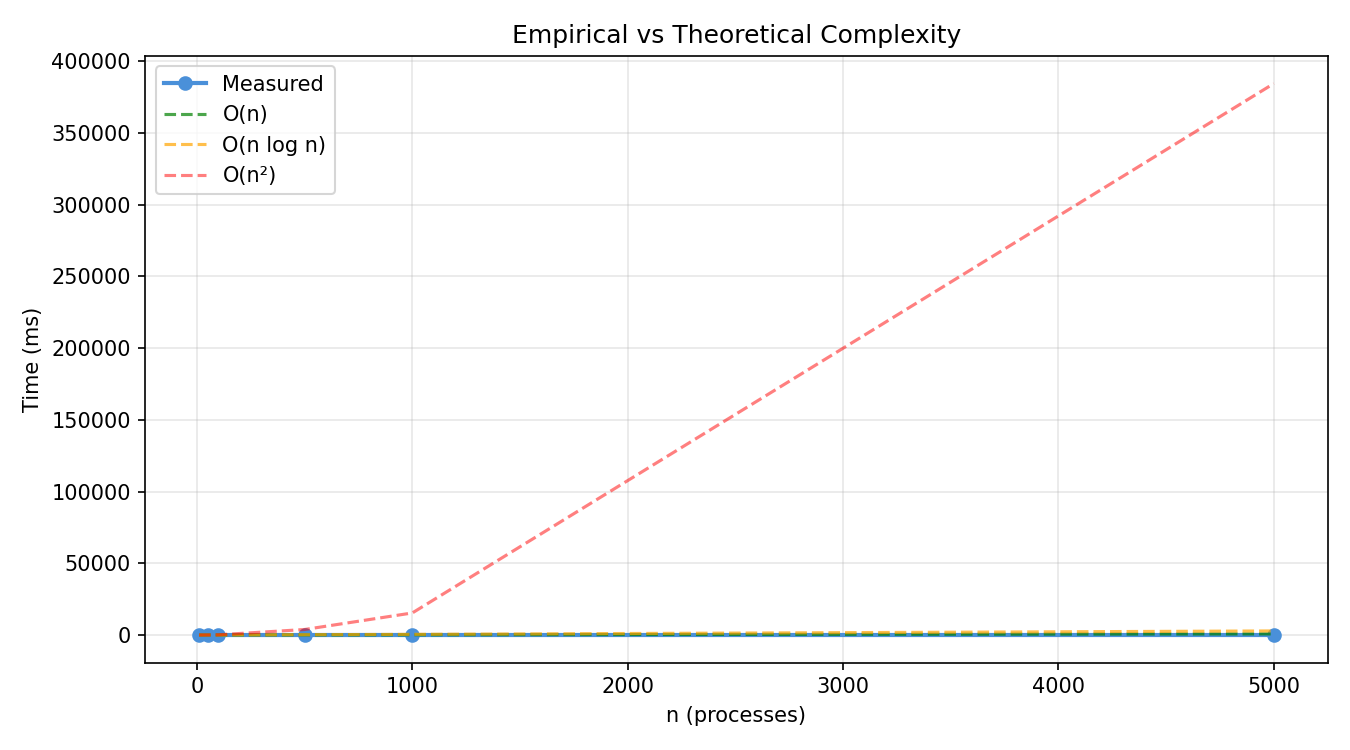
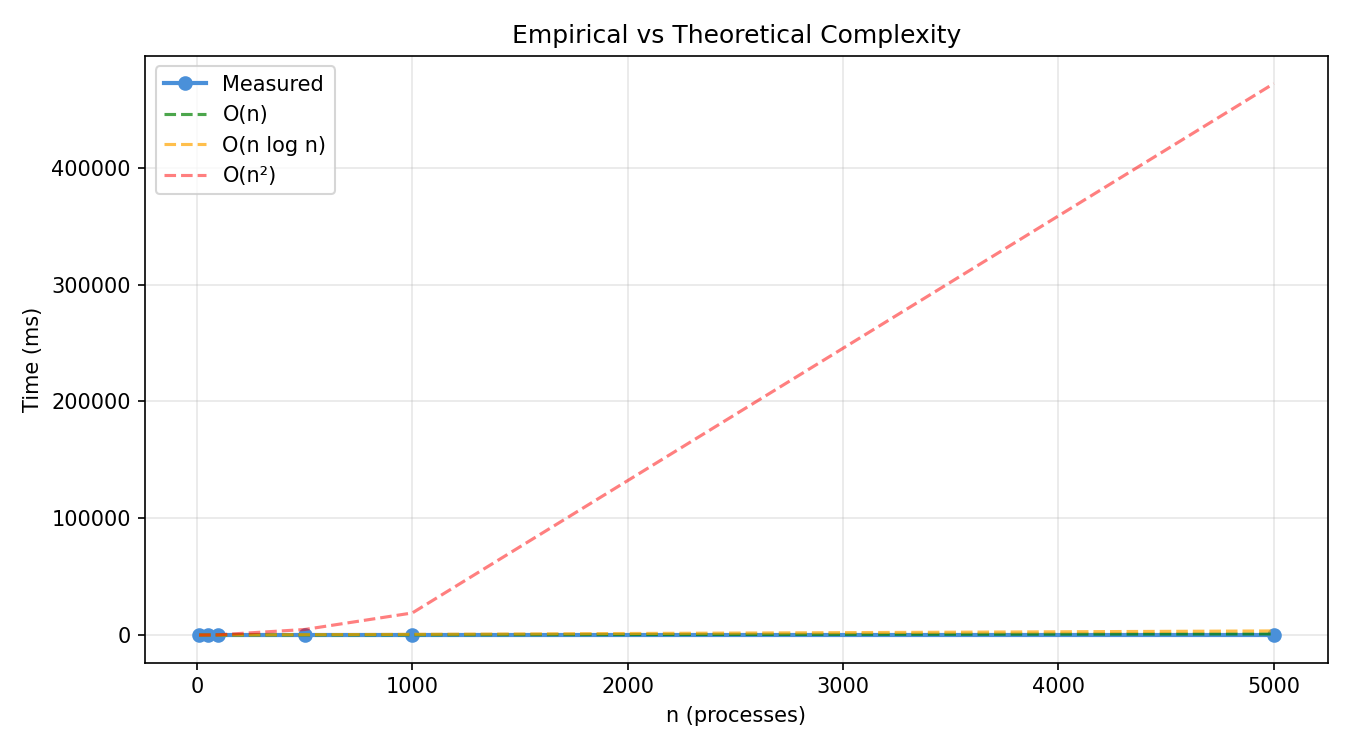
ultimas correciones

diff --git a/src/memory/first_fit.c b/src/memory/first_fit.c
@@ -2,10 +2,7 @@
 #include <stdio.h>
 #include "memory_manager.h"
 
-
-MemoryManager* mm_create(
-     int total_memory
-){
+MemoryManager* mm_create(int total_memory) {
      MemoryManager* mm = malloc(sizeof(MemoryManager));
      mm->total_memory  = total_memory;
 
@@ -21,10 +18,7 @@ MemoryManager* mm_create(
      return mm;
 }
 
-int mm_allocate_first_fit(
-    MemoryManager* mm,
-    int size
-){
+int mm_allocate_first_fit(MemoryManager* mm, int size) {
      MemoryBlock* cur = mm->head;
      while (cur) {
          if (cur->free && cur->size >= size) {
@@ -38,58 +32,65 @@ int mm_allocate_first_fit(
                  rest->prev  = cur;
                  if (cur->next) cur->next->prev = rest;
                  cur->next   = rest;
-            }
+             }
              cur->size = size;
              cur->free = 0;
              cur->pid  = size;
              return cur->start;
-        }
+         }
          cur = cur->next;
-    }
+     }
      return -1;
 }
 
-void mm_free(
-     MemoryManager* mm, 
-     int pid
-){
+void mm_free(MemoryManager* mm, int pid) {
      MemoryBlock* cur = mm->head;
      while (cur) {
-         if (!cur->free && cur->pid == pid) {
+         if (!cur->free && (cur->pid == pid || cur->size == pid)) {
              cur->free = 1;
              cur->pid  = -1;
+
+             if (cur->next && cur->next->free) {
+                 MemoryBlock* next_block = cur->next;
+                 cur->size += next_block->size;
+                 cur->next = next_block->next;
+                 if (next_block->next) next_block->next->prev = cur;
+                 free(next_block);
+             }
+
+             if (cur->prev && cur->prev->free) {
+                 MemoryBlock* prev_block = cur->prev;
+                 prev_block->size += cur->size;
+                 prev_block->next = cur->next;
+                 if (cur->next){
+                     cur->next->prev = prev_block;
+                 }
+                 free(cur);
+             }
              return;
-        }
+         }
          cur = cur->next;
-    }
+     }
 }
 
-void mm_print(
-     MemoryManager* mm
-){
+void mm_print(MemoryManager* mm) {
      MemoryBlock* cur = mm->head;
      printf("[Memory Map] total=%d\n", mm->total_memory);
      while (cur) {
          printf("  [%d-%d] size=%d %s pid=%d\n",
-             cur->start, 
-             cur->start + cur->size - 1,
-             cur->size,
-             cur->free ? "FREE" : "USED",
-             cur->pid
-        );
+             cur->start, cur->start + cur->size - 1, cur->size,
+             cur->free ? "FREE" : "USED", cur->pid
+         );
          cur = cur->next;
-    }
+     }
 }
 
-
-void mm_destroy(
-     MemoryManager* mm
-){
+void mm_destroy(MemoryManager* mm) {
      MemoryBlock* cur = mm->head;
      while (cur) {
          MemoryBlock* tmp = cur->next;
          free(cur);
          cur = tmp;
-    }
+     }
      free(mm);
 }

diff --git a/tests/main.c b/tests/main.c
@@ -1,33 +1,23 @@
 #include <stdio.h>
 
-void test_stack_push_pop();
-void test_stack_empty();
-void test_queue_fifo();
-void test_round_robin_behavior();
-void test_fifo_scheduler();
-void test_first_fit();
 
-int main() {
+void test_stack_push_pop(void);
+void test_stack_empty(void);
+void test_queue_fifo(void);
+void test_round_robin_behavior(void);
+void test_fifo_scheduler(void);
+void test_first_fit(void);
+
+int main(void) {
      printf("Running integration tests...\n");
 
      test_stack_push_pop();
      test_stack_empty();
-
      test_queue_fifo();
-
      test_round_robin_behavior();
-
      test_fifo_scheduler();
-
      test_first_fit();
 
-     test_bruteforce();
-
-     test_greedy();
-
-     test_dp();
-
      printf("All tests passed!\n");
-
      return 0;
 }

diff --git a/tests/test_memory_manager.c b/tests/test_memory_manager.c
@@ -1,20 +1,21 @@
+#include <stdio.h>
 #include <assert.h>
 #include "memory_manager.h"
 
 void test_first_fit() {
-     MemoryManager* mm = mm_create(1024);
+    MemoryManager* mm = mm_create(500);
 
-     int block1 = mm_allocate_first_fit(mm, 100);
-     int block2 = mm_allocate_first_fit(mm, 200);
+    int block1 = mm_allocate_first_fit(mm, 100); 
+    int block2 = mm_allocate_first_fit(mm, 200); 
 
-     assert(block1 >= 0);
-     assert(block2 >= 0);
+    assert(block1 == 0);
+    assert(block2 == 100);
 
-     mm_free(mm, block1);
+    mm_free(mm, 100); 
 
-     int block3 = mm_allocate_first_fit(mm, 50);
+    int block3 = mm_allocate_first_fit(mm, 50);
 
-     assert(block3 == block1);
+    assert(block3 == block1);
 
-     mm_destroy(mm);
+    mm_destroy(mm);
 }